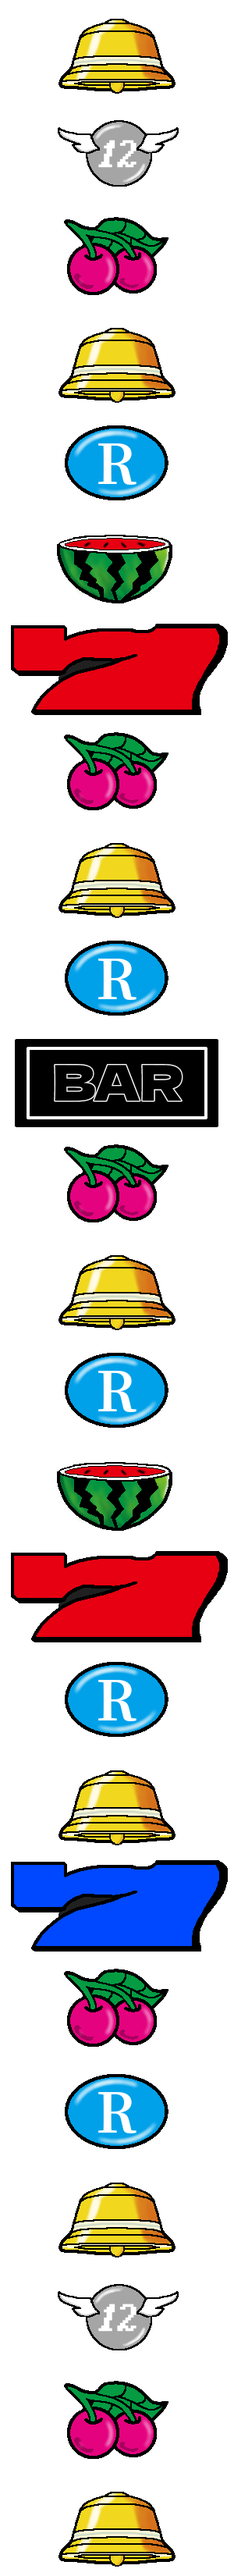
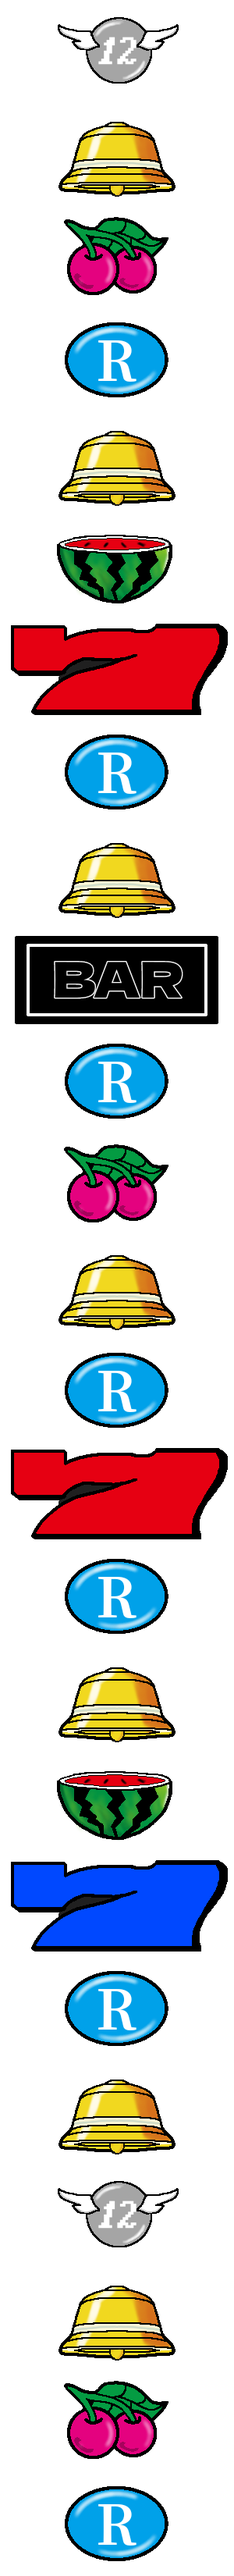
WIP

diff --git a/include/ReelData.hpp b/include/ReelData.hpp
@@ -132,26 +132,26 @@ constexpr array<Symbol, 21> leftReelStrips{
 };
 
 constexpr array<Symbol, 21> centerReelStrips{
-    Symbol::Bell,
     Symbol::Replay,
+    Symbol::Bell,
     Symbol::Suika,
     Symbol::RedSeven,
-    Symbol::Cherry,
-    Symbol::Bell,
     Symbol::Replay,
+    Symbol::Bell,
     Symbol::Bar,
+    Symbol::Replay,
     Symbol::Cherry,
     Symbol::Bell,
     Symbol::Replay,
-    Symbol::Suika,
     Symbol::RedSeven,
     Symbol::Replay,
     Symbol::Bell,
+    Symbol::Suika,
     Symbol::BlueSeven,
-    Symbol::Cherry,
     Symbol::Replay,
     Symbol::Bell,
     Symbol::Blank,
+    Symbol::Bell,
     Symbol::Cherry
 };
 
